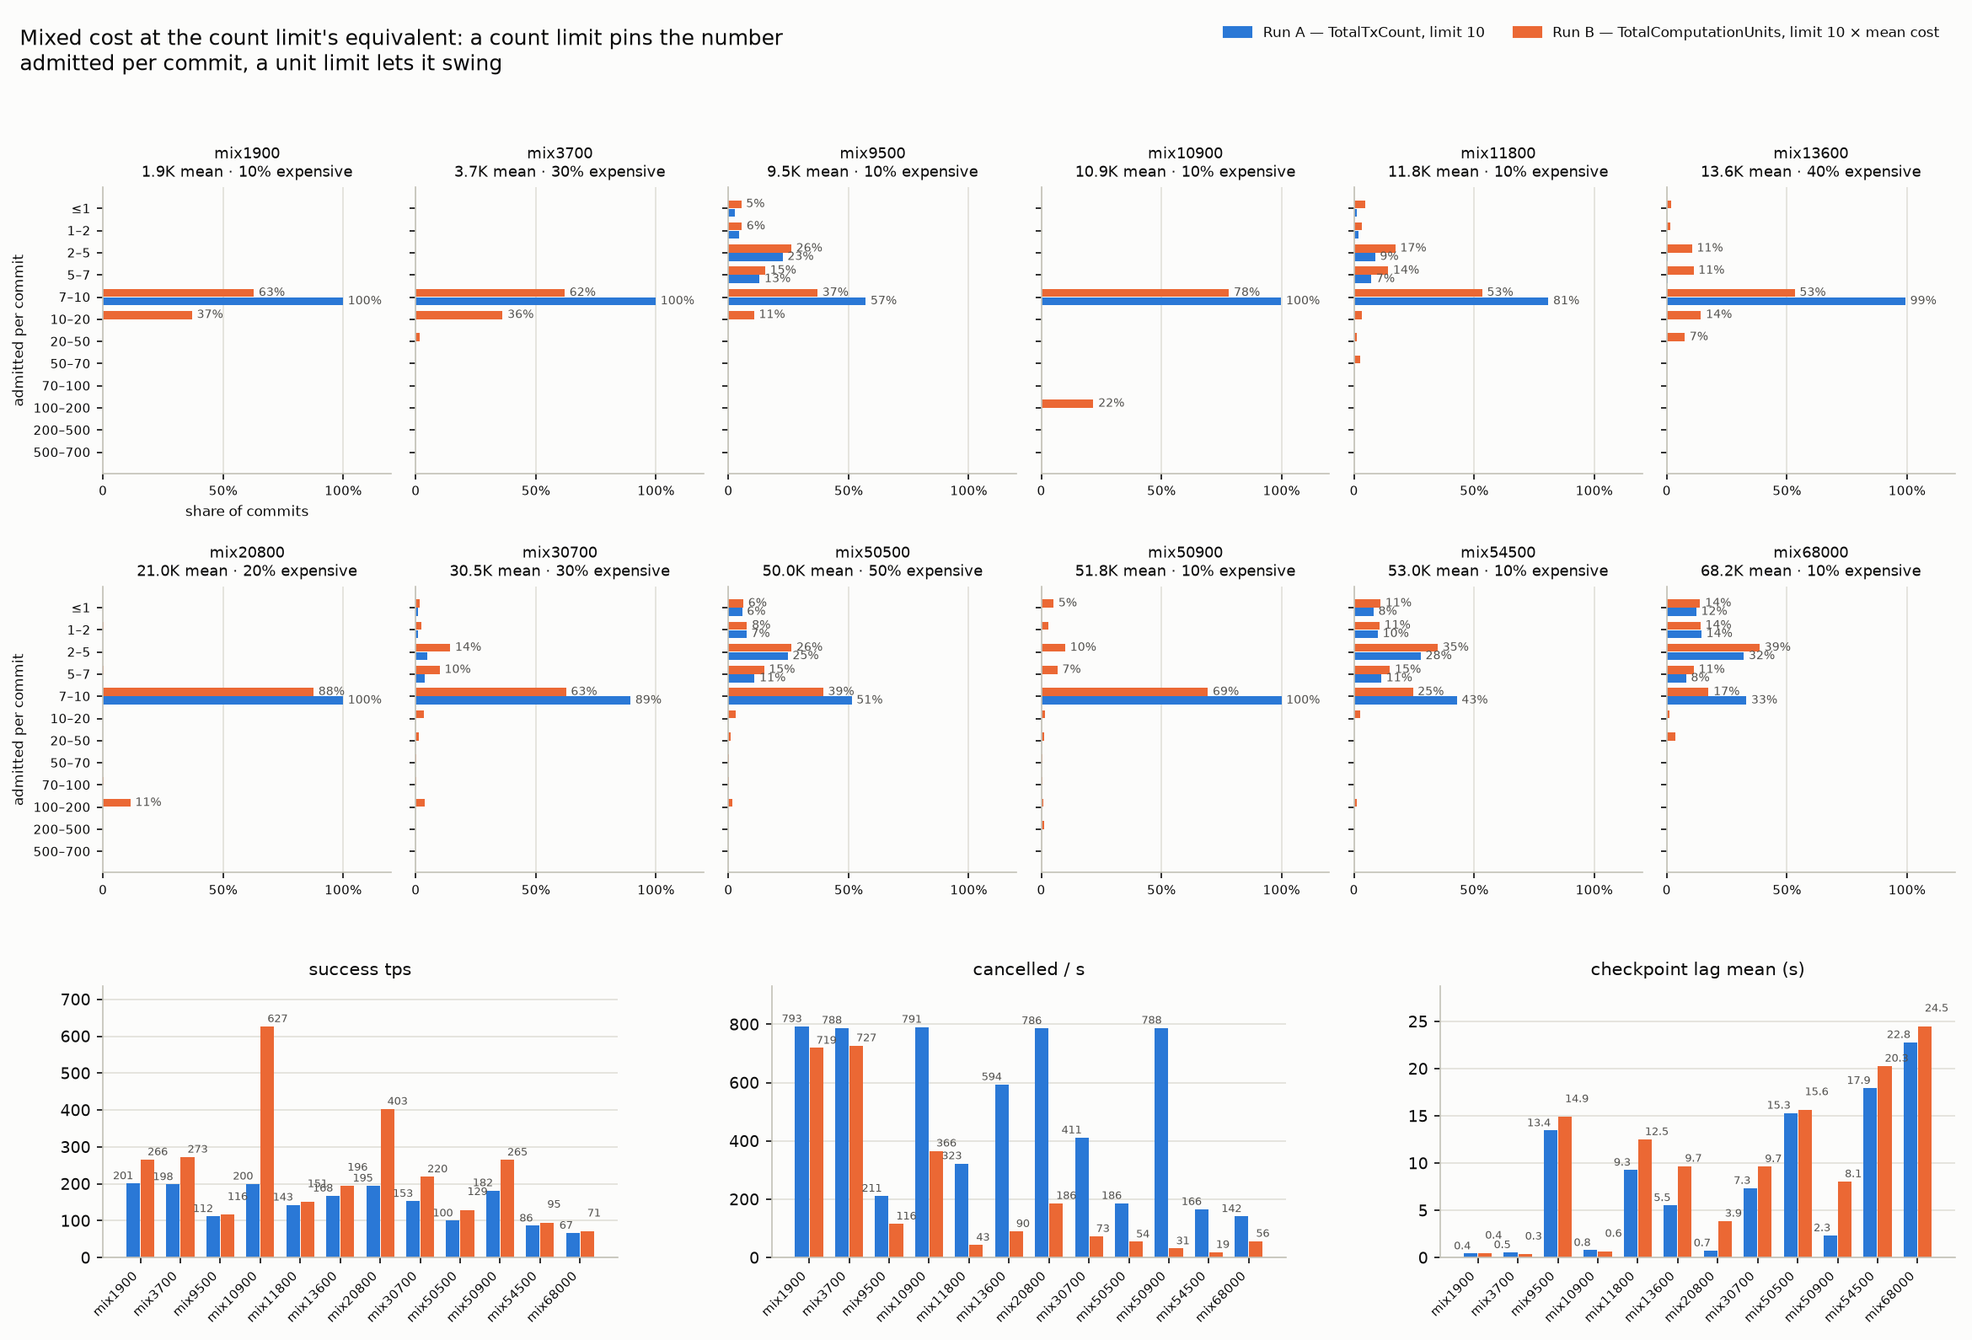
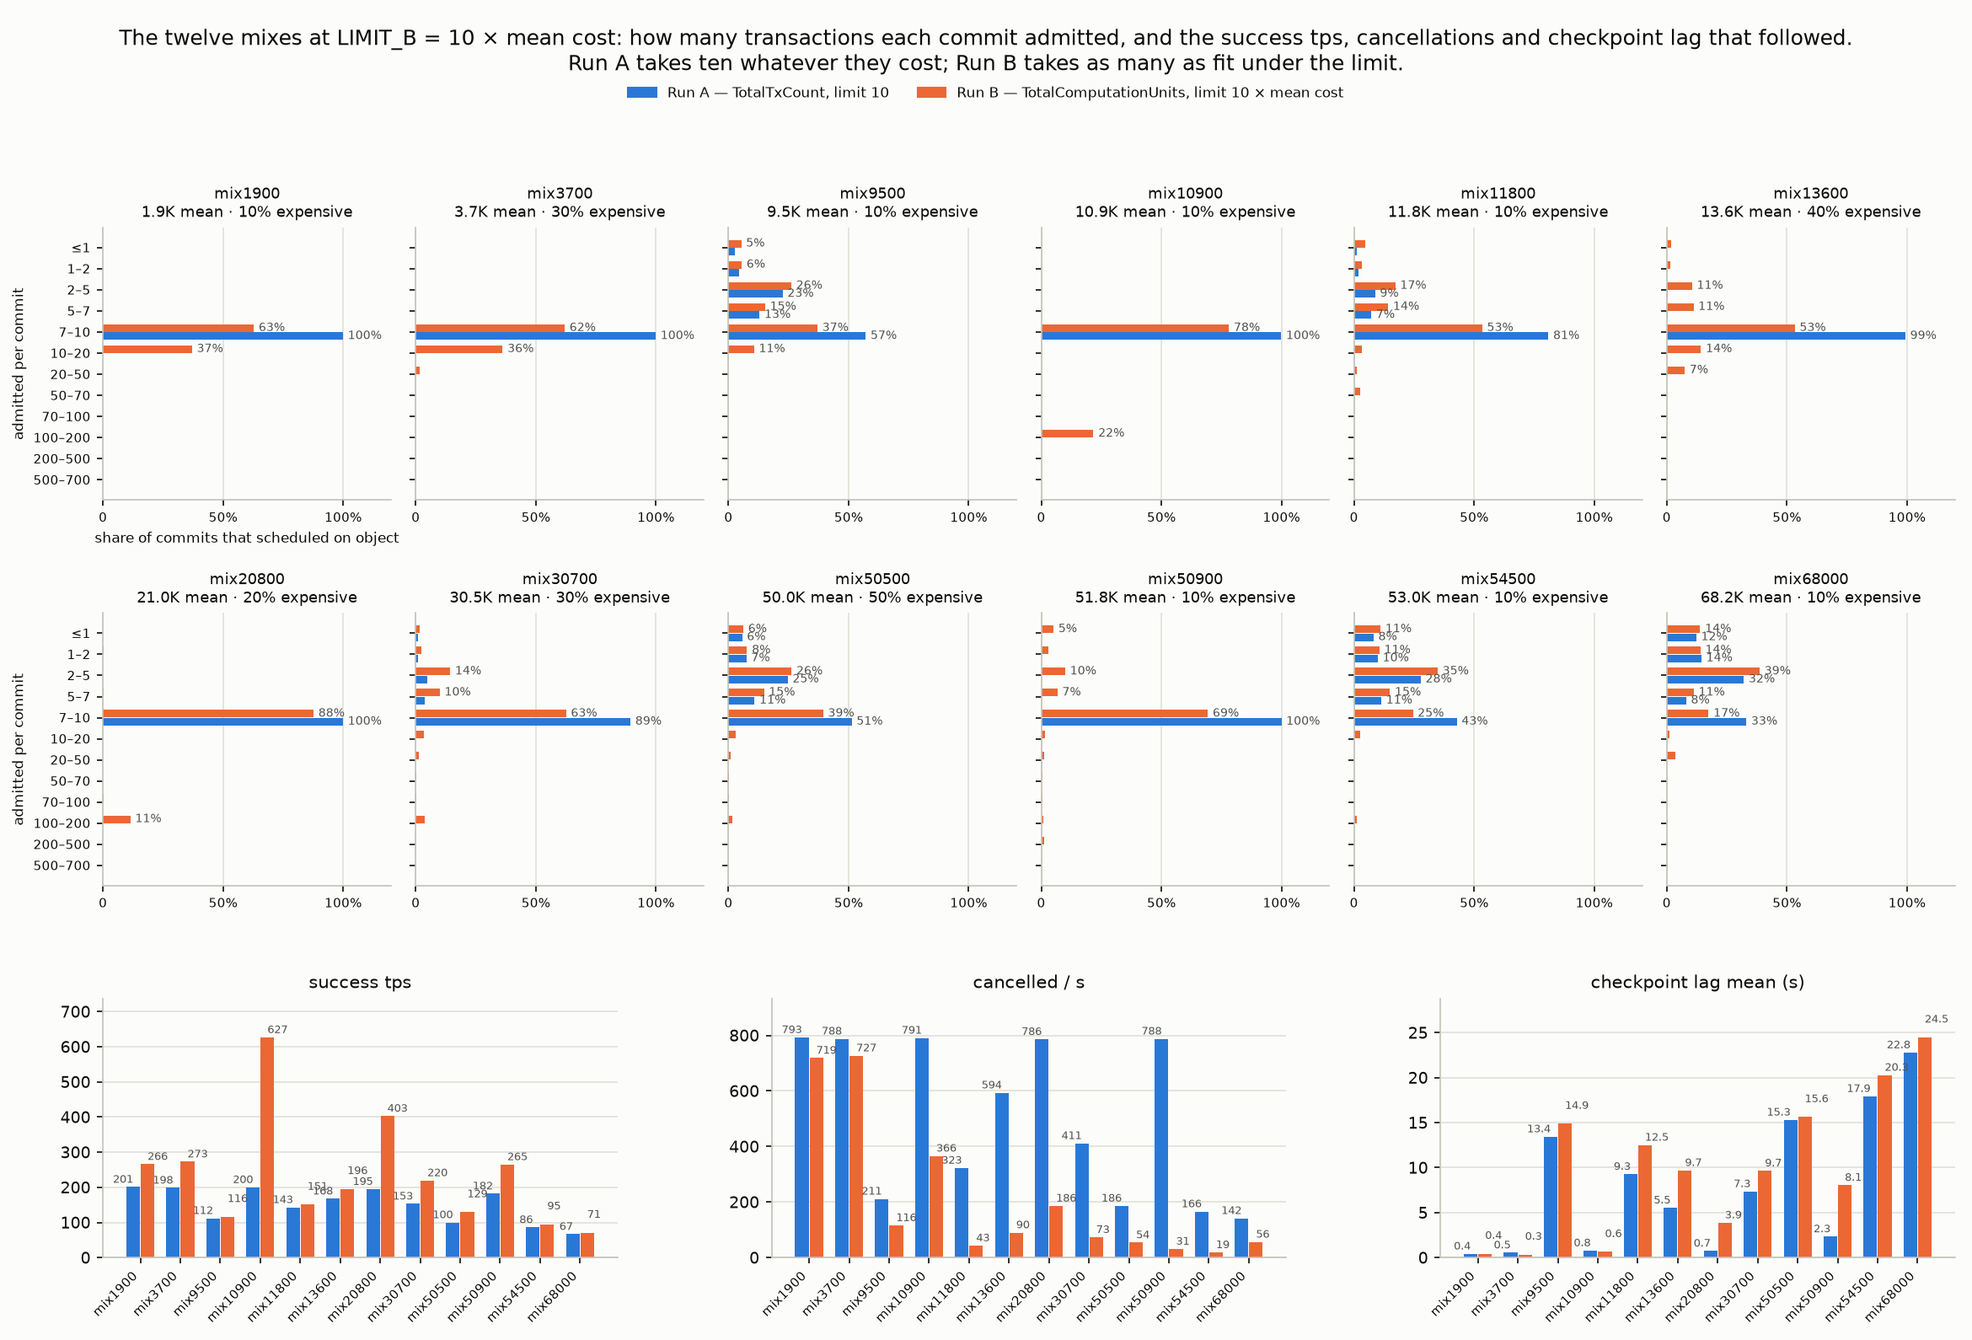
feat(h2): plot the two trade-offs as Pareto figures

diff --git a/stress-attestation-sequencer/h2/plot.py b/stress-attestation-sequencer/h2/plot.py
@@ -793,7 +793,7 @@ def plot_mix(configs, hist, outdir):
         ax.grid(False, axis="y")
         if j % per_row == 0:
             ax.set_ylabel("admitted per commit", fontsize=8)
-    fig.axes[0].set_xlabel("share of commits", fontsize=8)
+    fig.axes[0].set_xlabel("share of commits that scheduled on object", fontsize=8)
 
     # Bottom row: the outcome per config, A next to B. Run A's label is
     # right-aligned and Run B's left-aligned, and Run B's moves up one line
@@ -844,20 +844,21 @@ def plot_mix(configs, hist, outdir):
     fig.legend(
         handles,
         [A_NAME, "Run B — TotalComputationUnits, limit 10 × mean cost"],
-        loc="upper right",
+        loc="upper center",
         frameon=False,
         fontsize=8,
         ncol=2,
-        bbox_to_anchor=(0.99, 0.99),
+        bbox_to_anchor=(0.5, 0.945),
     )
     fig.suptitle(
-        "Mixed cost at the count limit's equivalent: a count limit pins the "
-        "number\nadmitted per commit, a unit limit lets it swing",
-        x=0.01,
-        ha="left",
+        "The twelve mixes at LIMIT_B = 10 \u00d7 mean cost: how many"
+        " transactions each commit admitted, and the success tps, cancellations"
+        " and checkpoint lag that followed.\n"
+        "Run A takes ten whatever they cost; Run B takes as many as fit under"
+        " the limit.",
         fontsize=12,
     )
-    fig.tight_layout(rect=(0, 0, 1, 0.955), h_pad=1.6)
+    fig.tight_layout(rect=(0, 0, 1, 0.925), h_pad=1.6)
     fig.savefig(os.path.join(outdir, f"modes_mix{FILE_SUFFIX}.png"), dpi=150)
     plt.close(fig)
 
@@ -979,6 +980,248 @@ def load_lag_slices(path, window=10):
             (float(r["t_start_s"]), float(r["lag_mean_s"]))
         )
     return out
+
+
+def pareto_front(pts, better_y_is_low):
+    """The non-dominated subset of (x, y, ...) tuples, x always maximised.
+    Sorted by x for drawing."""
+    keep = []
+    for a in pts:
+        dominated = False
+        for b in pts:
+            if b is a:
+                continue
+            ge = b[0] >= a[0]
+            gy = (b[1] <= a[1]) if better_y_is_low else (b[1] >= a[1])
+            strict = b[0] > a[0] or (b[1] != a[1])
+            if ge and gy and strict:
+                dominated = True
+                break
+        if not dominated:
+            keep.append(a)
+    return sorted(keep, key=lambda t: t[0])
+
+
+# (y key, panel title, is a low value better, y on a log scale)
+PARETO_MIX_PANELS = (
+    ("lag_mean_s", "checkpoint lag mean, B / A", True, True),
+    ("cancelled_per_s", "cancelled / s, B / A", True, False),
+    ("expensive_per_s", "expensive executed / s, B / A", False, False),
+)
+
+
+def plot_pareto_mix(mix_rows, outdir):
+    """Every mixed-cost config in ratio space: Run B over its own Run A, so the
+    count limit is the point (1, 1) for every mix. The shaded quadrant is where
+    the unit limit beats the count limit on both axes at once."""
+    ladders = {}
+    for r in mix_rows:
+        ladders.setdefault(r["point"], []).append(r)
+    named = sorted(
+        (k for k, v in ladders.items() if len(v) >= 2),
+        key=lambda k: ladders[k][0]["units_per_tx"] or 0,
+    )
+    others = [r for k, v in ladders.items() if len(v) < 2 for r in v]
+    if not named:
+        return
+    colors = ramp(len(named))
+    marks = ["o", "s", "^", "D", "v", "P"]
+    # The configs that beat Run A on success tps, cancellations and checkpoint
+    # lag at once. None of them also executes more expensive transactions.
+    wins = set()
+    for name, cfgs in ladders.items():
+        for r in cfgs:
+            ok = (
+                r.get("b_succ_tps")
+                and r.get("a_succ_tps")
+                and r["b_succ_tps"] > r["a_succ_tps"]
+                and r["b_cancelled_per_s"] < r["a_cancelled_per_s"]
+                and r["b_lag_mean_s"] < r["a_lag_mean_s"]
+            )
+            if ok:
+                wins.add(r["label"])
+    fig, axes = plt.subplots(1, 3, figsize=(15.0, 5.2), squeeze=False)
+    for ax, (key, title, low_is_better, logy) in zip(axes[0], PARETO_MIX_PANELS):
+        pts = []
+        for r in others:
+            a, b = r.get(f"a_{key}"), r.get(f"b_{key}")
+            sa, sb = r.get("a_succ_tps"), r.get("b_succ_tps")
+            if None in (a, b, sa, sb) or not a or not sa:
+                continue
+            ax.plot(sb / sa, b / a, "o", color=MUTED, ms=4, alpha=0.55, zorder=2)
+            pts.append((sb / sa, b / a))
+        for mi, (name, c) in enumerate(zip(named, colors)):
+            cfgs = sorted(ladders[name], key=lambda r: r["limit_b"])
+            xs, ys = [], []
+            for r in cfgs:
+                a, b = r.get(f"a_{key}"), r.get(f"b_{key}")
+                sa, sb = r.get("a_succ_tps"), r.get("b_succ_tps")
+                if None in (a, b, sa, sb) or not a or not sa:
+                    continue
+                xs.append(sb / sa)
+                ys.append(b / a)
+                pts.append((sb / sa, b / a))
+                if r["label"] in wins:
+                    ax.plot(
+                        xs[-1],
+                        ys[-1],
+                        "o",
+                        mfc="none",
+                        mec=SECOND_COLOR,
+                        ms=13,
+                        mew=1.6,
+                        zorder=6,
+                    )
+                ax.annotate(
+                    kfmt(r["limit_b"]),
+                    (xs[-1], ys[-1]),
+                    xytext=(5, 3 if len(xs) % 2 else -9),
+                    textcoords="offset points",
+                    fontsize=6.5,
+                    color=INK,
+                )
+            ax.plot(
+                xs,
+                ys,
+                "-",
+                marker=marks[mi % len(marks)],
+                color=c,
+                lw=1.6,
+                ms=5,
+                label=name,
+                zorder=3,
+            )
+        front = pareto_front(pts, low_is_better)
+        if len(front) > 1:
+            ax.step(
+                [t[0] for t in front],
+                [t[1] for t in front],
+                where="post",
+                color=INK,
+                lw=1,
+                ls="--",
+                zorder=4,
+            )
+        # Run A, and the quadrant where Run B beats it on both axes.
+        ax.plot(1, 1, "*", color=A_COLOR, ms=16, markeredgecolor=INK, zorder=5)
+        ax.set_xscale("log")
+        ax.xaxis.set_major_locator(matplotlib.ticker.FixedLocator([0.5, 1, 2, 3, 5]))
+        ax.xaxis.set_major_formatter(matplotlib.ticker.FormatStrFormatter("%g"))
+        ax.xaxis.set_minor_formatter(matplotlib.ticker.NullFormatter())
+        if logy:
+            ax.set_yscale("log")
+            ax.yaxis.set_major_locator(
+                matplotlib.ticker.FixedLocator([0.2, 0.5, 1, 2, 5, 10, 20])
+            )
+            ax.yaxis.set_major_formatter(matplotlib.ticker.FormatStrFormatter("%g"))
+            ax.yaxis.set_minor_formatter(matplotlib.ticker.NullFormatter())
+        x0, x1 = ax.get_xlim()
+        y0, y1 = ax.get_ylim()
+        ax.axvspan(1, max(x1, 1.01), ymin=0, ymax=1, color=GRID, alpha=0.0)
+        ax.add_patch(
+            Rectangle(
+                (1, y0 if low_is_better else 1),
+                max(x1, 1.01) - 1,
+                (1 - y0) if low_is_better else (y1 - 1),
+                color=SECOND_COLOR,
+                alpha=0.09,
+                lw=0,
+                zorder=0,
+            )
+        )
+        ax.axvline(1, color=INK2, lw=1, ls=":")
+        ax.axhline(1, color=INK2, lw=1, ls=":")
+        ax.set_xlim(x0, x1)
+        ax.set_ylim(y0, y1)
+        style_axes(ax)
+        ax.set_xlabel("success tps, B / A (log)")
+        ax.set_title(title, fontsize=9)
+    axes[0][0].legend(frameon=False, fontsize=8, loc="best")
+    fig.suptitle(
+        "Mixed cost, each unit limit against its own count limit: the star is"
+        " Run A at (1, 1) and the shaded quadrant is where Run B wins on both"
+        " axes.\n"
+        "Ringed \u2014 wins on success tps, cancellations and checkpoint lag at"
+        " once; none of them also executes more expensive transactions"
+        " (right).",
+        fontsize=12,
+    )
+    fig.tight_layout(rect=(0, 0, 1, 0.9))
+    fig.savefig(os.path.join(outdir, f"modes_pareto_mix{FILE_SUFFIX}.png"), dpi=150)
+    plt.close(fig)
+
+
+def plot_pareto_fixed(points, outdir):
+    """Fixed cost, absolute values: the good corner stays empty. Success tps
+    sits at the drain rate whatever the limit, so the only choice left is how
+    the surplus fails \u2014 cancelled now or queued later."""
+    fig, (top, bot) = plt.subplots(2, 1, figsize=(7.6, 8.2), sharex=True)
+    colors = ramp(len(points))
+    for p, c in zip(points, colors):
+        d = p.drain()
+        xs, lags, rel = [], [], []
+        for _, cfg in p.curve():
+            canc, lag, succ = (
+                cfg["b_cancelled_per_s"],
+                cfg["b_lag_mean_s"],
+                cfg["b_succ_tps"],
+            )
+            if None in (canc, lag, succ) or not cfg["target_qps"]:
+                continue
+            xs.append(canc / cfg["target_qps"])
+            lags.append(lag)
+            rel.append(succ / d if d else None)
+        # Dominated inside this cost point: another limit of the same ladder
+        # cancels less AND lags less. Those are drawn hollow.
+        worse = [
+            any(
+                (xs[j] <= xs[i] and lags[j] <= lags[i])
+                and (xs[j] < xs[i] or lags[j] < lags[i])
+                for j in range(len(xs))
+                if j != i
+            )
+            for i in range(len(xs))
+        ]
+        top.plot(xs, lags, "-", color=c, lw=1.4, label=p.name)
+        if d:
+            bot.plot(xs, rel, "-", color=c, lw=1.4)
+        for i, w in enumerate(worse):
+            style = dict(mfc="none", mec=c, mew=1.2) if w else dict(color=c)
+            top.plot(xs[i], lags[i], "o", ms=4.5, **style)
+            if d:
+                bot.plot(xs[i], rel[i], "o", ms=4.5, **style)
+        qps = p.configs[0]["target_qps"] or 1
+        if p.a["cancelled_per_s"] is not None and p.a["lag_mean_s"] is not None:
+            star = dict(
+                marker="*", color=c, ms=13, markeredgecolor=INK, markeredgewidth=0.6
+            )
+            top.plot(p.a["cancelled_per_s"] / qps, p.a["lag_mean_s"], **star)
+            if d:
+                bot.plot(p.a["cancelled_per_s"] / qps, p.a["succ_tps"] / d, **star)
+    top.set_yscale("log")
+    top.set_ylabel("checkpoint lag mean (s, log)")
+    bot.set_ylabel("success tps / drain rate")
+    bot.set_xlabel("cancelled fraction of offered")
+    bot.axhline(1, color=INK2, lw=1, ls=":")
+    top.set_title(
+        "the two failures trade against each other: only cu1k, which the client"
+        "\ncannot saturate, reaches the bottom left corner",
+        fontsize=9,
+    )
+    bot.set_title("success tps stops at the drain rate however the limit is set", fontsize=9)
+    for ax in (top, bot):
+        style_axes(ax)
+    top.legend(frameon=False, fontsize=7, loc="upper right", ncol=3)
+    fig.suptitle(
+        "Fixed cost: every configuration of every cost point, Run B as dots,"
+        " Run A starred.\n"
+        "Hollow \u2014 beaten by another limit of the same cost point on both"
+        " axes.",
+        fontsize=12,
+    )
+    fig.tight_layout(rect=(0, 0, 1, 0.93))
+    fig.savefig(os.path.join(outdir, f"modes_pareto_fixed{FILE_SUFFIX}.png"), dpi=150)
+    plt.close(fig)
 
 
 def plot_lag_over_time(fine, coarse, outdir):
@@ -1153,6 +1396,7 @@ def main():
         plot_utilization(points, outdir)
         plot_tradeoff(points, outdir)
         plot_matched(points, outdir)
+        plot_pareto_fixed(points, outdir)
     if mix:
         # The 300 s runs are drawn over time, not on the ladders. Of the rest,
         # a mix run at several limits is a ladder; a mix at LIMIT_B = 10 x
@@ -1171,6 +1415,7 @@ def main():
             plot_mix(matched, hist, outdir)
         if ladders:
             plot_mix_ladders(ladders, outdir)
+        plot_pareto_mix(mix, outdir)
     lag_path = os.path.join(results, "lag_over_time.csv")
     plot_lag_over_time(load_lag_slices(lag_path, 10), load_lag_slices(lag_path, 60), outdir)
     if second:

diff --git a/stress-attestation-sequencer/h2/RESULTS.md b/stress-attestation-sequencer/h2/RESULTS.md
@@ -829,33 +829,40 @@ A's checkpoint lag is already 9–23 s. Execution on the object is kept saturate
 by the cheap transactions alone — 5K transactions drain at 118/s, 2K — at 179/s
 (finding 3) — so admitting more of them buys nothing.
 
-So the gain does not come from the gap between the two costs. It comes from
-whether Run A's ten transactions leave the object idle, because only then does
-Run B's limit have room to add more. On EPYC, that needs cheap transactions of
-≈1,000 CUs: at 2K or 5K, ten of them already saturate the object (finding 3).
+So the success tps gain does not come from the gap between the two costs. It
+comes from whether Run A's ten transactions leave the object idle, because only
+then does Run B's limit have room to add more. On EPYC, that needs cheap
+transactions of ≈1,000 CUs: at 2K or 5K, ten of them already saturate the
+object (finding 3).
 
-Raising the expensive share does the same from the other side, because past
-20 % the expensive transactions alone fill the object:
+Raising the share of expensive transactions removes the success tps gain too,
+and for the same reason: past 20 %, the expensive transactions alone saturate
+the object:
 
-| Mix | Expensive share | Gain | Checkpoint lag A → B |
+| Mix | Expensive share | Success tps B/A | Checkpoint lag A → B |
 | --- | --- | --- | --- |
 | `mix10900` | 10 % | 3.1× | 0.8 → 0.6 s |
 | `mix20800` | 20 % | 2.1× | 0.7 → 3.9 s |
 | `mix30700` | 30 % | 1.4× | 7.3 → 9.7 s |
 | `mix50500` | 50 % | 1.3× | 15.3 → 15.6 s |
 
-The three-cost mix (`mix13600`, 1K/10K/100K at 60/30/10 %) gains 1.17× with
-checkpoint lag 5.5 → 9.7 s: its 10K middle cost uses the capacity the cheap
-ones would have filled.
+The three-cost mix (`mix13600`, 1K/10K/100K at 60/30/10 %) behaves the same
+way: success tps B/A is 1.17 and checkpoint lag goes from 5.5 s in Run A to
+9.7 s in Run B, because its middle transactions of 10K CUs take the capacity
+the cheap ones would have filled.
 
 ![Admitted per commit, and the outcome, for the mixes at the count limit's equivalent](results/matrix/summary_plots/modes_mix.png)
 
-*The twelve mixes run at `LIMIT_B = 10 × mean`. Top: the share of commits
-admitting each number of transactions, Run A (blue) next to Run B (orange).
-Bottom: success tps, cancellations and checkpoint lag. Run B gains where Run A's
-bar is 100 % at 7–10 — where the count limit binds and execution on the object
-has spare time; where both runs have slid below 10 execution on the object is
-already saturated and the modes produce the same numbers.*
+*The twelve mixes run at `LIMIT_B = 10 × mean cost`. The top two rows are the
+admission histograms: for each bucket of transactions admitted per commit, the
+share of the commits that scheduled anything on the object, Run A (blue) next
+to Run B (orange). Run A fills the 7–10 bucket wherever ten transactions are
+waiting — 99–100 % of commits in six of the mixes, and as little as 33 % where
+the object is already saturated — while Run B spreads across buckets, because
+how many transactions can fit under its limit depends on what the commit holds.
+The bottom row gives each mix's success tps, cancellations, and checkpoint lag,
+and it follows the histograms: success tps B/A stays within 6 % of admits B/A
+in all twelve, from 1.04 at `mix9500` to 3.13 at `mix10900`.*
 
 *Stable, not just low.* The 60 s window cannot tell a queue that is high but
 stable from one that keeps growing, so four configurations ran for 300 s, ten
@@ -989,7 +996,8 @@ shape. What changes is how far each configuration was from its own ceiling at
   still at zero, so at 1,000 tx/s that configuration was measuring the client
   and not the limit.
 - `mix20800` at 150K gains 23 % and `mix10900` at 200K gains 53 %, both
-  starting to cancel heavily, which is the limit binding for the first time.
+  starting to cancel heavily, which is the first time the limit turns
+  transactions away.
 - Where the limit already admits more work than a commit can execute, the extra
   load goes into the backlog instead. `cu2k` at 100K and at 200K roughly double
   their checkpoint lag, 8.9 → 16.7 s and 8.7 → 17.3 s, for 25 % more throughput.

diff --git a/stress-attestation-sequencer/h2/README.md b/stress-attestation-sequencer/h2/README.md
@@ -146,13 +146,14 @@ start at or above its own per-transaction cost, and why the tightest meaningful
 limit for `cu5m` is one transaction per commit.
 
 The rate is the second knob: it sets how many transactions are available per
-commit, and a limit only binds when more arrive than it admits. Every
+commit, and a limit only matters when more arrive than it admits. Every
 configuration runs at 1,000 tx/s except the `-qps2000` ones: at 1,000 units the
-limit binds at that rate already, and from 5,000 units up the client's in-flight
-cap lowers what it offers to what can execute on the object, so a higher target
-changes nothing there (`RESULTS.md`, finding 3). The `-qps2000` configurations
-therefore cover only the two lightest cost points and the mixes whose cheap
-cost is 1,000 units, where more arrivals can still change the result.
+limit already turns transactions away at that rate, and from 5,000 units up the
+client's in-flight cap lowers what it offers to what can execute on the object,
+so a higher target changes nothing there (`RESULTS.md`, finding 3). The
+`-qps2000` configurations therefore cover only the two lightest cost points and
+the mixes whose cheap cost is 1,000 units, where more arrivals can still change
+the result.
 
 Computation units are machine-independent, but execution time is not, so the
 same limit fills the object differently on each machine — measure where
